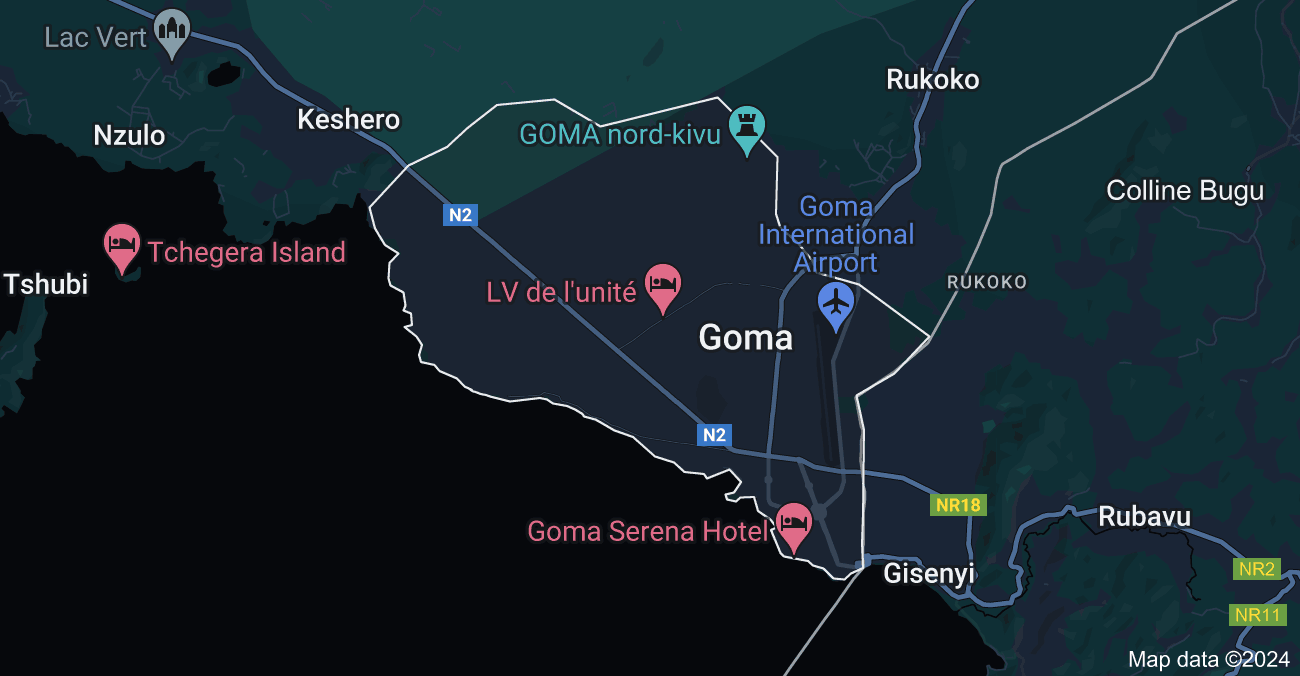
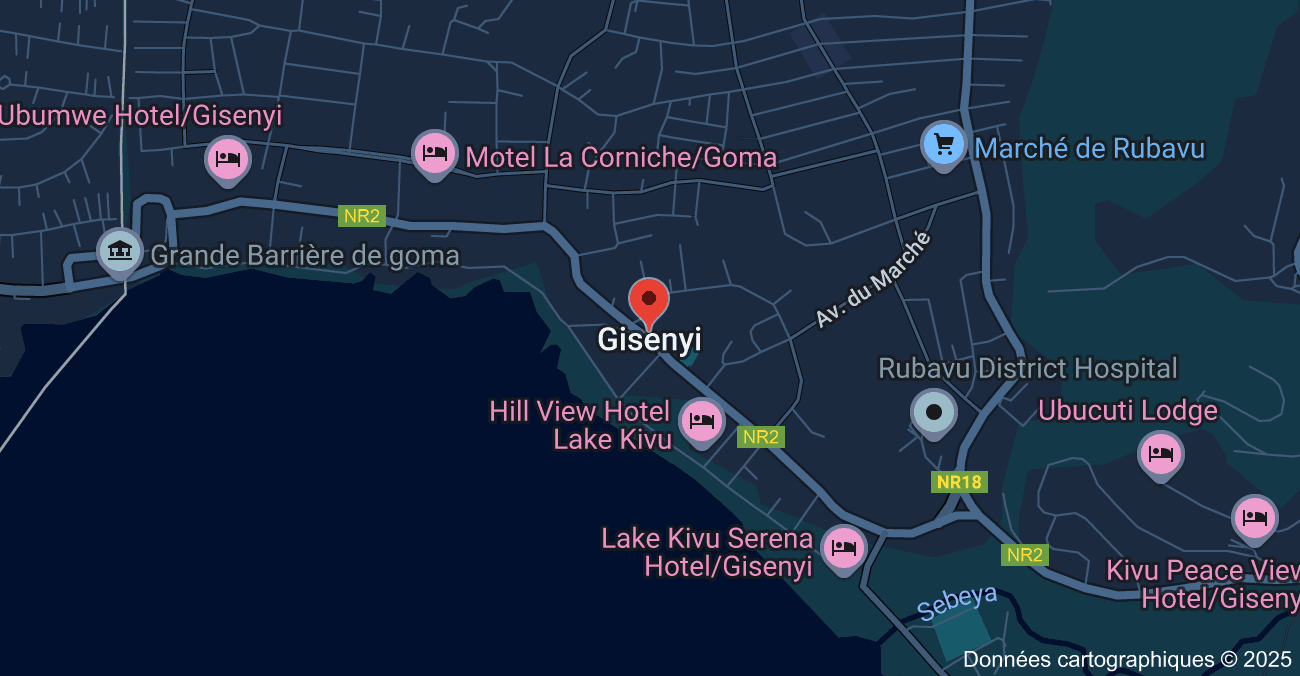
style: imrpove contactUs layout and logic

diff --git a/src/sections/About.tsx b/src/sections/About.tsx
@@ -121,20 +121,23 @@ const books = [
   {
     title: 'Atomic Habits',
     author: 'James Clear',
-    image: bookImage, // Replace with actual images
     description: 'Tiny changes, remarkable results',
   },
   {
     title: 'Clean Code',
     author: 'Robert C. Martin',
-    image: bookImage, // Replace with actual images
     description: 'A handbook of agile software craftsmanship',
   },
   {
     title: 'Refactoring UI',
     author: 'Adam Wathan & Steve Schoger',
-    image: bookImage, // Replace with actual images
     description: 'Make your UI designs shine',
+  },
+  {
+    title: 'Fullstack Open',
+    author: 'University of Helsinki',
+    description:
+      'Modern web app development with React, TypeScript, Node.js, and GraphQL',
   },
 ];
 
@@ -147,7 +150,6 @@ export const AboutSection = () => {
   });
 
   const backgroundY = useTransform(scrollYProgress, [0, 1], ['0%', '30%']);
-  const opacity = useTransform(scrollYProgress, [0, 0.3, 0.8, 1], [0, 1, 1, 0]);
 
   return (
     <div
@@ -196,33 +198,84 @@ export const AboutSection = () => {
                   className="mb-6"
                 />
 
-                <div className="space-y-6">
-                  {books.map((book, index) => (
-                    <motion.div
-                      key={book.title}
-                      initial={{ opacity: 0, y: 20 }}
-                      whileInView={{ opacity: 1, y: 0 }}
-                      transition={{ delay: 0.1 * index + 0.3, duration: 0.5 }}
-                      viewport={{ once: true }}
-                      className="flex gap-4 items-center">
-                      <div className="w-16 h-24 flex-shrink-0 rounded-md overflow-hidden bg-gray-800">
-                        <Image
-                          src={book.image}
-                          alt={book.title}
-                          width={64}
-                          height={96}
-                          className="object-cover h-full w-full"
+                <div className="p-6">
+                  <div className="mb-4 flex items-center justify-between">
+                    <h3 className="text-xl font-bold text-white">
+                      Learning Resources
+                    </h3>
+                    <div className="text-sm text-white/60 flex items-center gap-2">
+                      <svg
+                        width="16"
+                        height="16"
+                        viewBox="0 0 24 24"
+                        fill="none"
+                        xmlns="http://www.w3.org/2000/svg">
+                        <path
+                          d="M6 2h12v20l-6-4-6 4V2z"
+                          stroke="currentColor"
+                          strokeWidth="2"
+                          strokeLinecap="round"
+                          strokeLinejoin="round"
                         />
-                      </div>
-                      <div>
-                        <h4 className="font-medium">{book.title}</h4>
-                        <p className="text-sm text-white/60">{book.author}</p>
-                        <p className="text-xs text-white/50 mt-1">
-                          {book.description}
-                        </p>
-                      </div>
-                    </motion.div>
-                  ))}
+                      </svg>
+                      <span>Books that shaped my journey</span>
+                    </div>
+                  </div>
+
+                  <div className="grid grid-cols-1 md:grid-cols-2 gap-6">
+                    {books.map((book, index) => (
+                      <motion.div
+                        key={book.title}
+                        initial={{ opacity: 0, y: 20 }}
+                        whileInView={{ opacity: 1, y: 0 }}
+                        transition={{ delay: 0.1 * index + 0.2, duration: 0.5 }}
+                        viewport={{ once: true }}
+                        whileHover={{
+                          scale: 1.03,
+                          transition: { duration: 0.2 },
+                        }}
+                        className="flex gap-4 p-4 rounded-xl bg-white/5 border border-white/10 group hover:bg-gradient-to-br hover:from-white/10 hover:to-transparent transition-all duration-300">
+                        <div className="flex flex-col justify-center">
+                          <div className="flex items-center">
+                            <h4 className="font-medium text-white group-hover:text-emerald-400 transition-colors duration-300">
+                              {book.title}
+                            </h4>
+                            <motion.div
+                              initial={{ opacity: 0, width: 0 }}
+                              whileInView={{ opacity: 1, width: 'auto' }}
+                              transition={{
+                                delay: 0.4 + index * 0.1,
+                                duration: 0.5,
+                              }}
+                              className="ml-2">
+                              {index === 0 && (
+                                <span className="text-xs py-0.5 px-2 rounded-full bg-gradient-to-r from-amber-500 to-orange-500 text-white text-nowrap">
+                                  Mindset
+                                </span>
+                              )}
+                              {index === 1 && (
+                                <span className="text-xs py-0.5 px-2 rounded-full bg-gradient-to-r from-emerald-500 to-teal-500 text-white text-nowrap">
+                                  Favorite
+                                </span>
+                              )}
+                              {index === 2 && (
+                                <span className="text-xs py-0.5 px-2 rounded-full bg-gradient-to-r from-indigo-500 to-purple-500 text-white text-nowrap">
+                                  Essential
+                                </span>
+                              )}
+                              {index === 3 && (
+                                <span className="text-xs py-0.5 px-2 rounded-full bg-gradient-to-r from-sky-500 to-cyan-500 text-white text-nowrap">
+                                  In progress
+                                </span>
+                              )}
+                            </motion.div>
+                          </div>
+                          <p className="text-sm text-white/60">{book.author}</p>
+                          <div className="h-px w-full bg-gradient-to-r from-white/10 to-transparent my-2" />
+                        </div>
+                      </motion.div>
+                    ))}
+                  </div>
                 </div>
               </Card>
             </motion.div>
@@ -353,9 +406,8 @@ export const AboutSection = () => {
               <div className="absolute bottom-8 left-8 max-w-md">
                 <h3 className="text-2xl font-bold mb-2">Location</h3>
                 <p className="text-white/80">
-                  Based in Kinshasa, Democratic Republic of Congo. Available for
-                  remote work worldwide and selective on-site projects in
-                  Africa.
+                  Based in Gisenyi, Rwanda. Available for remote work worldwide
+                  and selective on-site projects in Africa.
                 </p>
               </div>
 

diff --git a/src/sections/Contact.tsx b/src/sections/Contact.tsx
@@ -1,8 +1,6 @@
 'use client';
 import { motion, useAnimation, Variants } from 'framer-motion';
 import { useState, useRef, useEffect } from 'react';
-import Image from 'next/image';
-import Link from 'next/link';
 import ArrowUpRightIcon from '@/assets/icons/arrow-up-right.svg';
 import grainImage from '@/assets/images/grain.jpg';
 
@@ -118,11 +116,6 @@ export const ContactSection: React.FC = () => {
         ease: 'easeOut',
       },
     }),
-    hover: {
-      y: -5,
-      color: '#0369a1', // Sky-600 color
-      transition: { type: 'spring', stiffness: 400, damping: 10 },
-    },
   };
 
   // Floating particles
@@ -235,7 +228,7 @@ export const ContactSection: React.FC = () => {
           ))}
 
           {/* Text content with enhanced styling */}
-          <div className="md:max-w-xl relative">
+          <div className="md:max-w-[1000px] relative">
             <motion.h2
               className="font-serif text-2xl md:text-3xl tracking-tight text-gray-800 drop-shadow-sm"
               variants={textVariants}>
@@ -259,11 +252,14 @@ export const ContactSection: React.FC = () => {
                   href={link.href}
                   target="_blank"
                   rel="noopener noreferrer"
-                  className="text-sm text-gray-700 transition-all duration-300 flex items-center gap-1 px-3 py-1 rounded-full hover:bg-white/20 backdrop-blur-sm"
+                  className="text-sm font-medium text-white bg-gray-800 transition-all duration-300 flex items-center gap-2 px-4 py-2 rounded-lg shadow-lg group"
                   custom={index}
                   variants={socialVariants}
                   whileHover="hover">
-                  {link.title}
+                  <span className="group-hover:scale-105 duration-500">
+                    {link.title}
+                  </span>
+                  <ArrowUpRightIcon className="size-4 transition-all duration-500 delay-200 group-hover:rotate-45 group-hover:translate-x-2" />
                 </motion.a>
               ))}
             </motion.div>
@@ -283,7 +279,7 @@ export const ContactSection: React.FC = () => {
               transition={{ duration: 2.5, repeat: Infinity, repeatDelay: 1 }}
             />
 
-            <span className="font-semibold w-max relative z-10">
+            <span className="font-semibold w-max text-nowrap relative z-10">
               Contact Me
             </span>
             <motion.span

diff --git a/src/sections/Hero.tsx b/src/sections/Hero.tsx
@@ -1,13 +1,15 @@
-import Image from "next/image";
-import memojiImage from "@/assets/images/memoji-computer.png";
-import ArrowDown from "@/assets/icons/arrow-down.svg";
-import grainImage from "@/assets/images/grain.jpg";
-import StarIcon from "@/assets/icons/star.svg";
-import SparkleIcon from "@/assets/icons/sparkle.svg";
-import { HeroOrbit } from "@/components/HeroOrbit";
+import Image from 'next/image';
+import memojiImage from '@/assets/images/memoji-computer.png';
+import ArrowDown from '@/assets/icons/arrow-down.svg';
+import grainImage from '@/assets/images/grain.jpg';
+import StarIcon from '@/assets/icons/star.svg';
+import SparkleIcon from '@/assets/icons/sparkle.svg';
+import { HeroOrbit } from '@/components/HeroOrbit';
 
 export const HeroSection = () => (
-  <div className="py-32 md:py-48 lg:py-60 relative z-0 overflow-x-clip">
+  <div
+    className="py-32 md:py-48 lg:py-60 relative z-0 overflow-x-clip"
+    id="home">
     <div className="absolute inset-0 [mask-image:linear-gradient(to_bottom,transparent,black_10%,black_70%,transparent)]">
       <div
         className="absolute inset-0 -z-30 opacity-5"

diff --git a/src/sections/Footer.tsx b/src/sections/Footer.tsx
@@ -13,6 +13,7 @@ const footerLinks = [
   },
   { title: 'Telegram', href: 'https://t.me/joelmagene' },
 ];
+const year = new Date().getFullYear();
 
 export const Footer = () => {
   return (
@@ -20,8 +21,10 @@ export const Footer = () => {
       <div className="absolute h-[400px] w-[1600px] bottom-0 left-1/2 -translate-x-1/2 bg-emerald-300/30 [mask-image:radial-gradient(50%_50%_at_bottom_center,black,transparent)] -z-10"></div>
       <div className="container relative -z-9">
         <div className="border-t border-white/15 py-6 text-sm flex flex-col items-center gap-8">
-          <div className="text-white/40">&copy; 2024. All rights reserved.</div>
-          <nav className="flex flex-col md:flex-row items-center gap-8 ">
+          <div className="text-white/40">
+            &copy; {year}. All rights reserved.
+          </div>
+          <nav className="flex flex-col md:flex-row items-center gap-8 md:hidden">
             {footerLinks.map((link) => (
               <a
                 key={link.title}

diff --git a/src/sections/Header.tsx b/src/sections/Header.tsx
@@ -8,7 +8,7 @@ export const Header = () => {
   const overlayRef = useRef(null);
 
   const sections = [
-    { id: 'home', label: 'Home', href: '#' },
+    { id: 'home', label: 'Home', href: '#home' },
     { id: 'projects', label: 'Projects', href: '#projects' },
     { id: 'about', label: 'About', href: '#about' },
     { id: 'contacts', label: 'Contact', href: '#contacts' },
